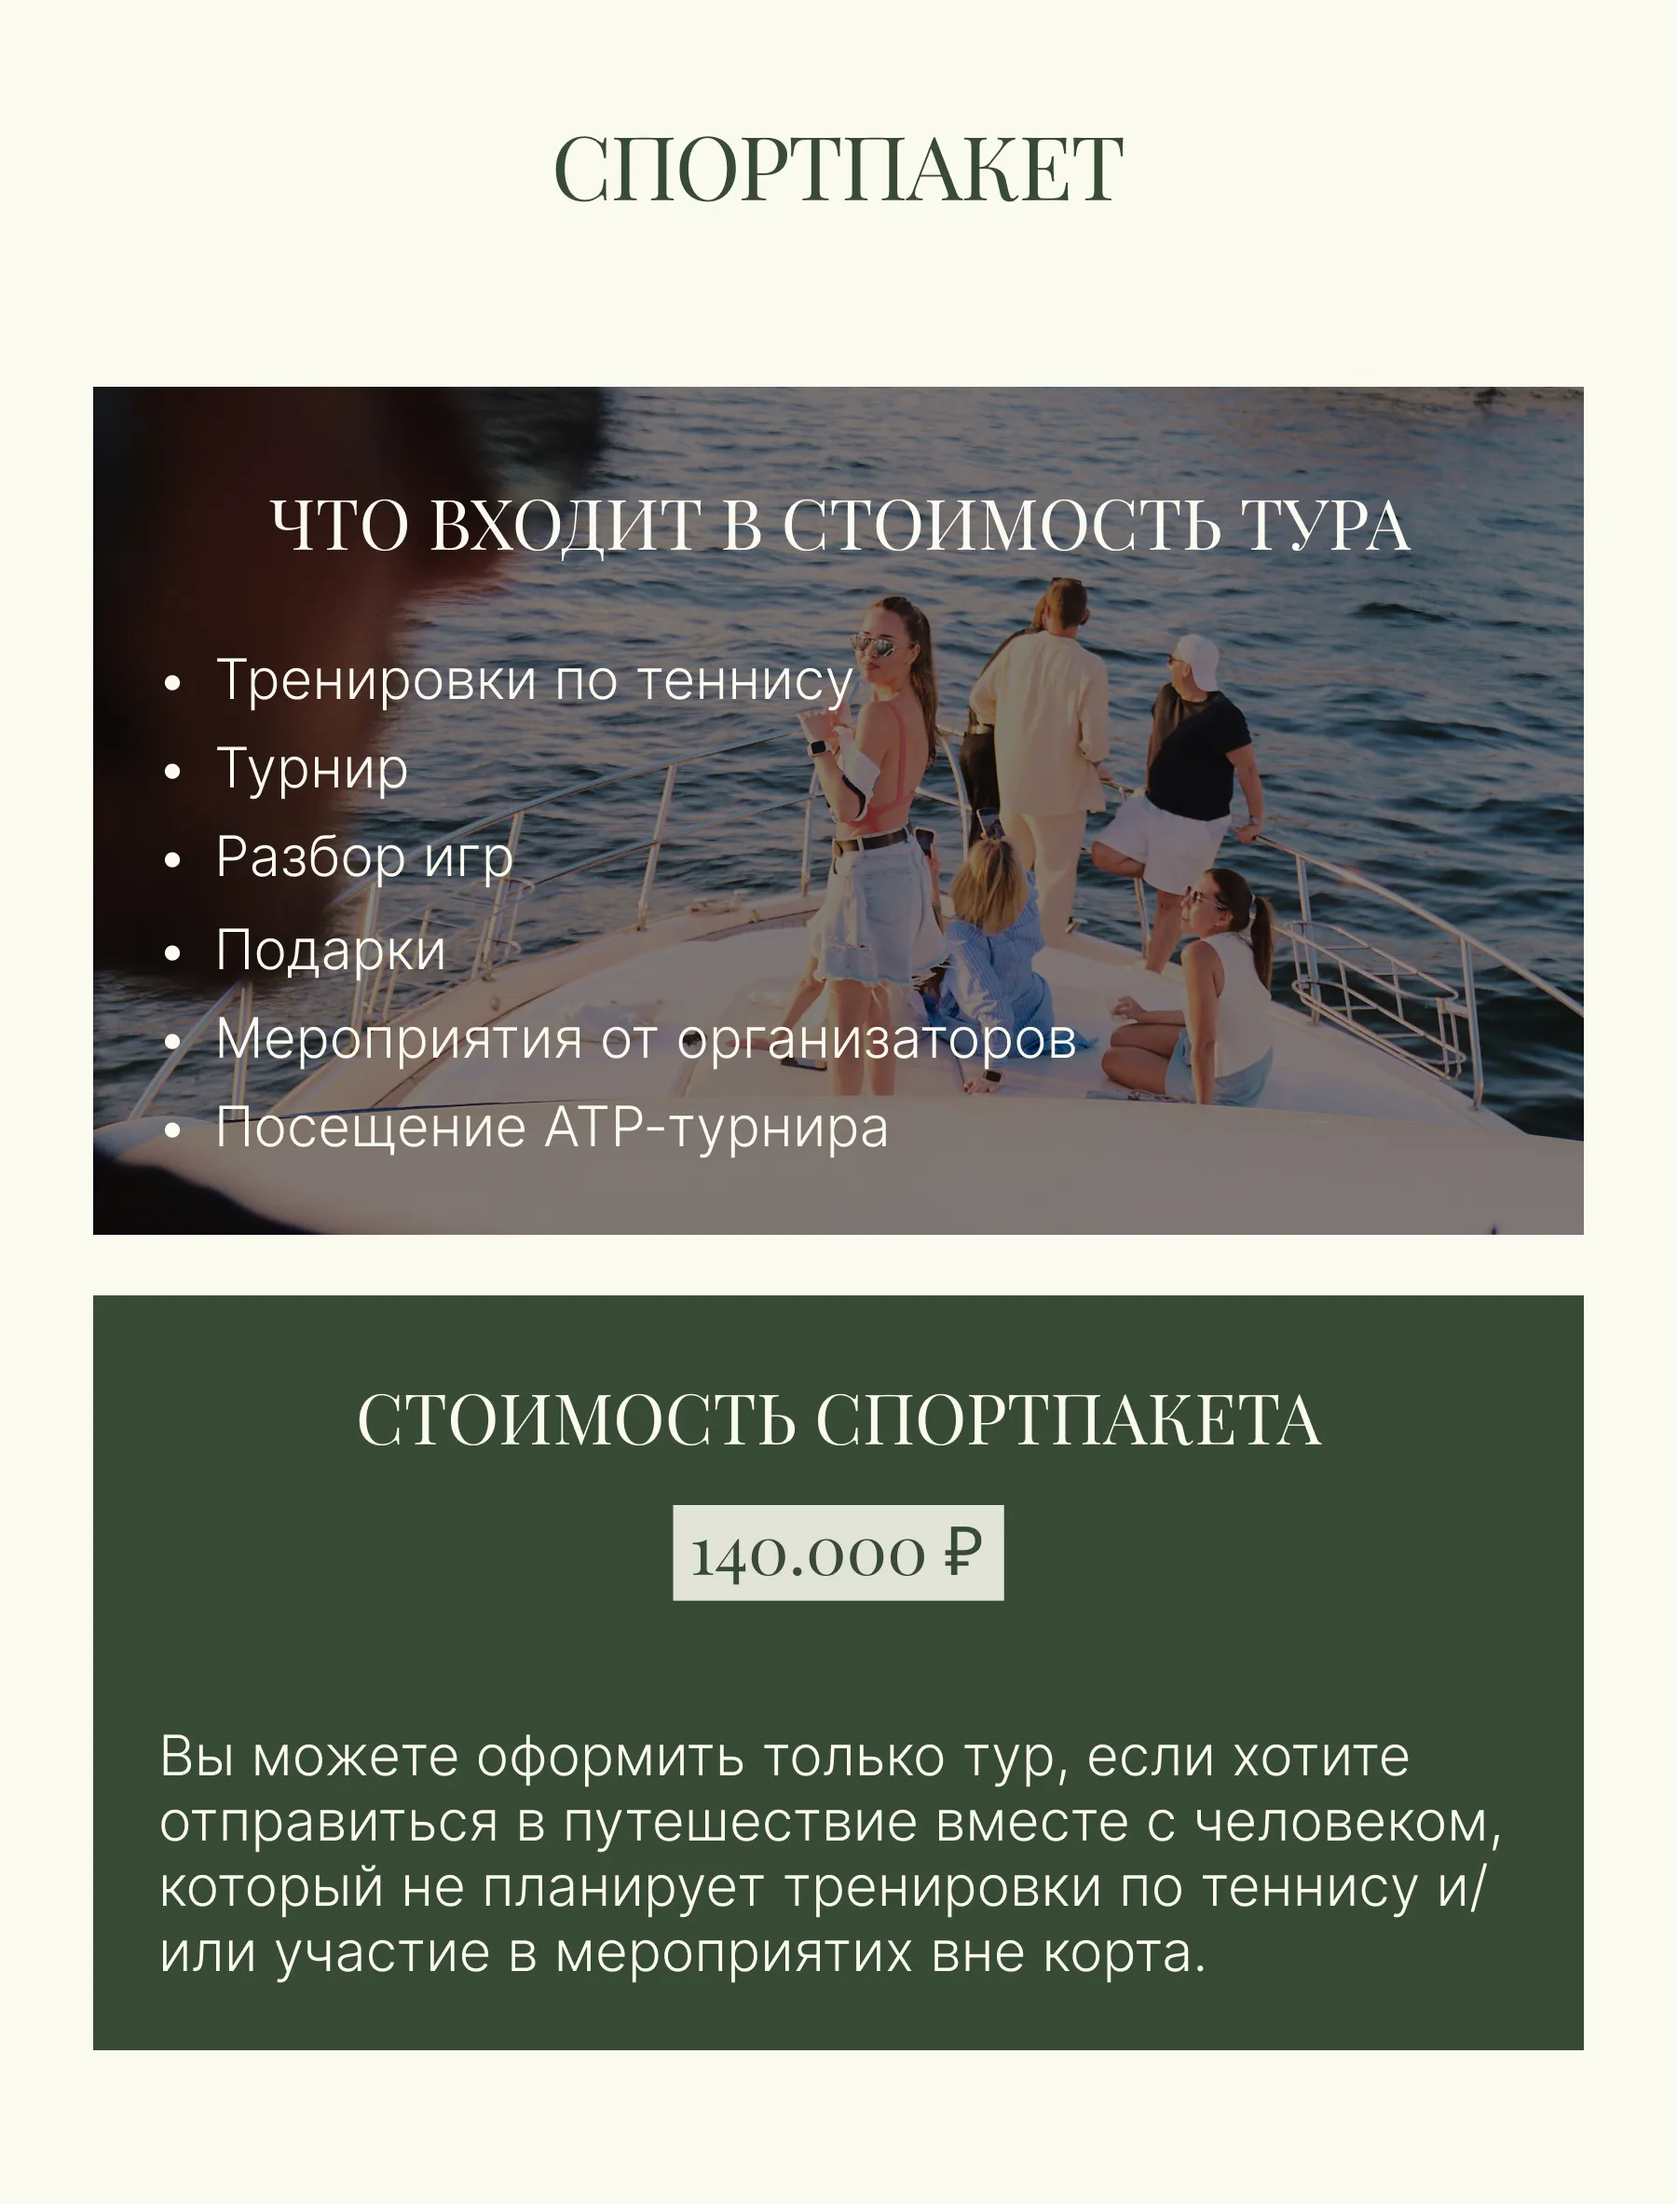
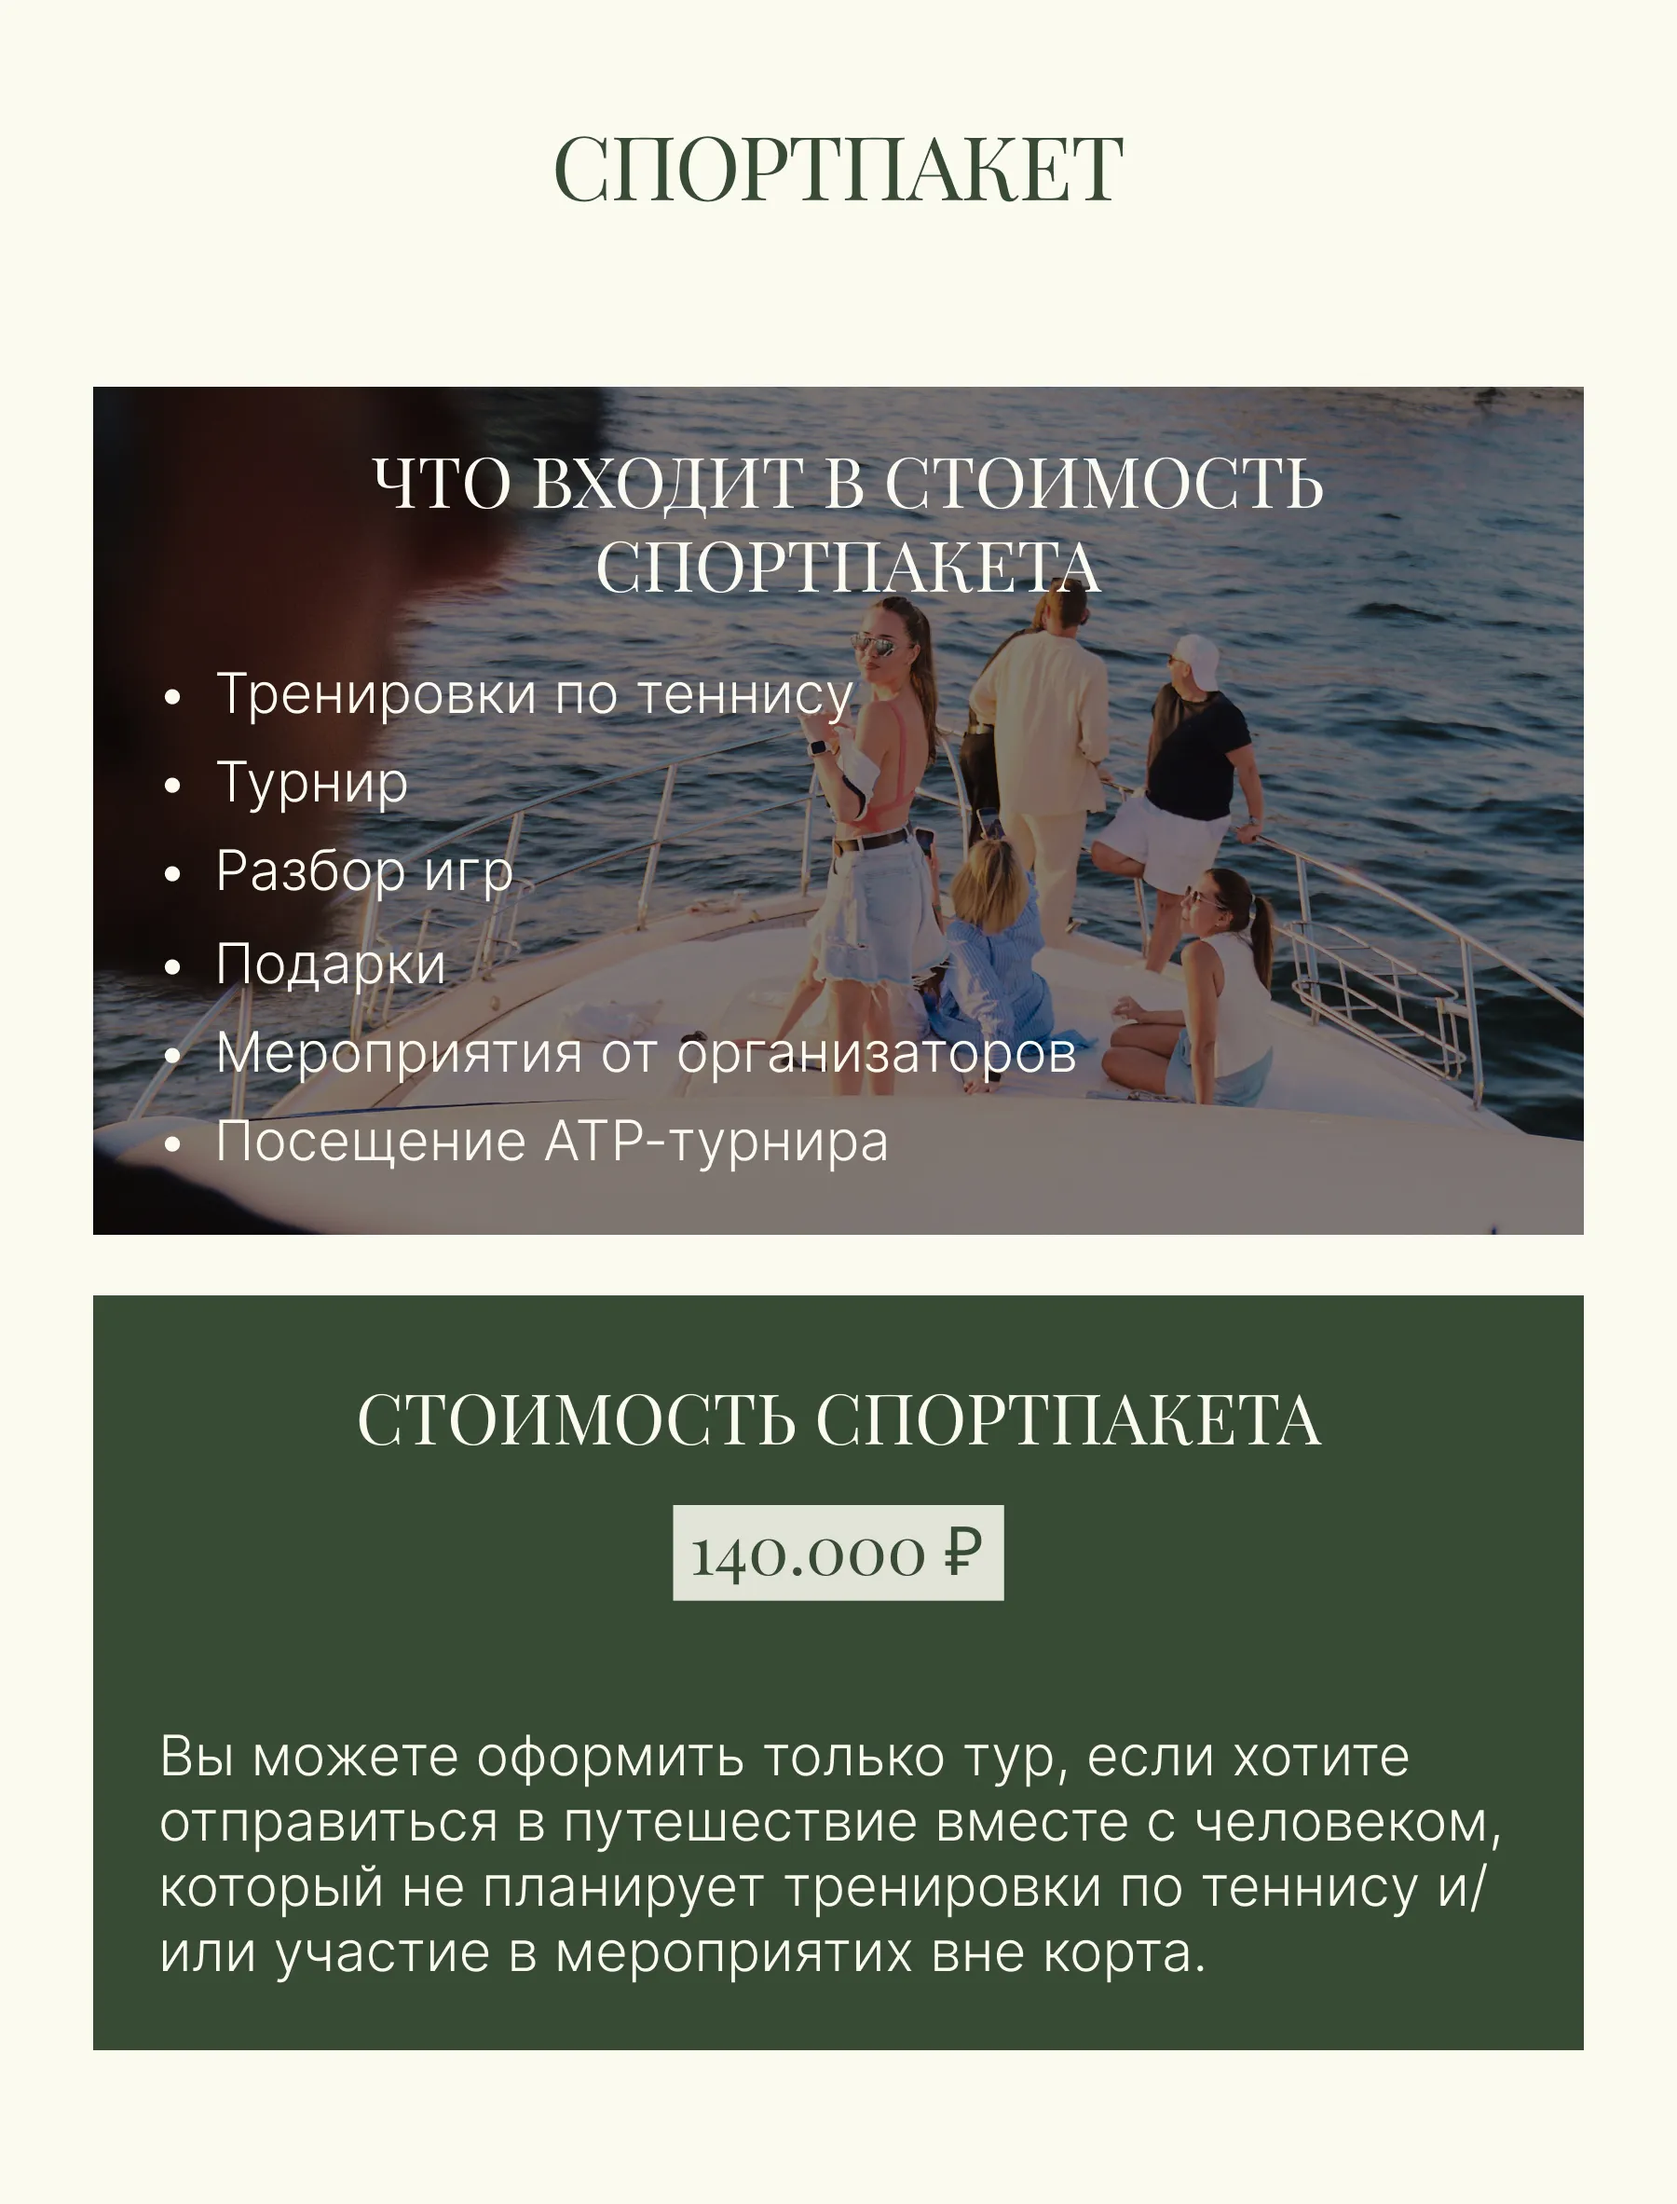
Add files via upload

Changed region(s): [[0.0933, 0.3087, 0.6533, 0.5247], [0.1556, 0.1852, 0.84, 0.2778], [0.3422, 0.3087, 0.5289, 0.3395]]

diff --git a/index.html b/index.html
@@ -386,6 +386,7 @@
         <section class="price" id="price">
             <div class="price__container">
                 <h2 class="price__title">СТОИМОСТЬ И УСЛОВИЯ</h2>
+                <h3 class="price__subtitle">стоимость кэмпа состоит из <strong><em>тура</em></strong> и <strong><em>спортпакета</em></strong>:</h3>
                 <div class="price__cards">
 
                     <div class="price__card price__card--green">
@@ -404,8 +405,8 @@
                         <div class="price__card-top">
                             <h3 class="price__card-title">ДВУХМЕСТНОЕ РАЗМЕЩЕНИЕ</h3>
                             <div class="price__card-btn-wrap">
-                              <p>С питанием: завтрак+ужин  <a href="#form" class="price__card-btn" data-open-form="true">272.000 ₽</a></p>
-                              <p>С питанием: завтрак <a href="#form" class="price__card-btn" data-open-form="true">265.000 ₽</a></p>
+                              <p>С питанием: завтрак+ужин  <a href="#form" class="price__card-btn" data-open-form="true">от 135.000 ₽</a></p>
+                              <p>С питанием: завтрак <a href="#form" class="price__card-btn" data-open-form="true">от 125.000 ₽</a></p>
                                 <div class="price__tooltip">Указанная стоимость туров может меняться
                                     в зависимости от курса евро и стоимости услуг авиакомпаний и отелей.
 
@@ -421,8 +422,8 @@
                         <div class="price__card-top">
                             <h3 class="price__card-title">ОДНОМЕСТНОЕ РАЗМЕЩЕНИЕ</h3>
                             <div class="price__card-btn-wrap">
-                                <p>С питанием: завтрак+ужин  <a href="#form" class="price__card-btn" data-open-form="true">348.000 ₽</a></p>
-                              <p>С питанием: завтрак <a href="#form" class="price__card-btn" data-open-form="true">330.000 ₽</a></p>
+                                <p>С питанием: завтрак+ужин  <a href="#form" class="price__card-btn" data-open-form="true">от 208.000 ₽</a></p>
+                              <p>С питанием: завтрак <a href="#form" class="price__card-btn" data-open-form="true">от 190.000 ₽</a></p>
                                 <div class="price__tooltip">Указанная стоимость туров может меняться
                                     в зависимости от курса евро и стоимости услуг авиакомпаний и отелей.
 

diff --git a/style.css b/style.css
@@ -813,13 +813,22 @@ body.menu-is-open {
 
 .price__title {
     font-family: "Playfair Display";
-    font-size: clamp(19px, 3vw, 28px);
+    font-size: clamp(22px, 3vw, 28px);
     font-weight: 400;
     text-transform: uppercase;
     color: var(--dark-green);
     text-align: center;
 }
 
+.price__subtitle {
+    font-family: Inter;
+    font-size: clamp(14px, 2vw, 13px);
+    font-weight: 300;
+    text-transform: uppercase;
+    color: var(--dark-green);
+    text-align: center;
+    margin-bottom: 8px;
+}
 .price__txt {
     font-family: Inter;
     font-size: clamp(11px, 2vw, 13px);
